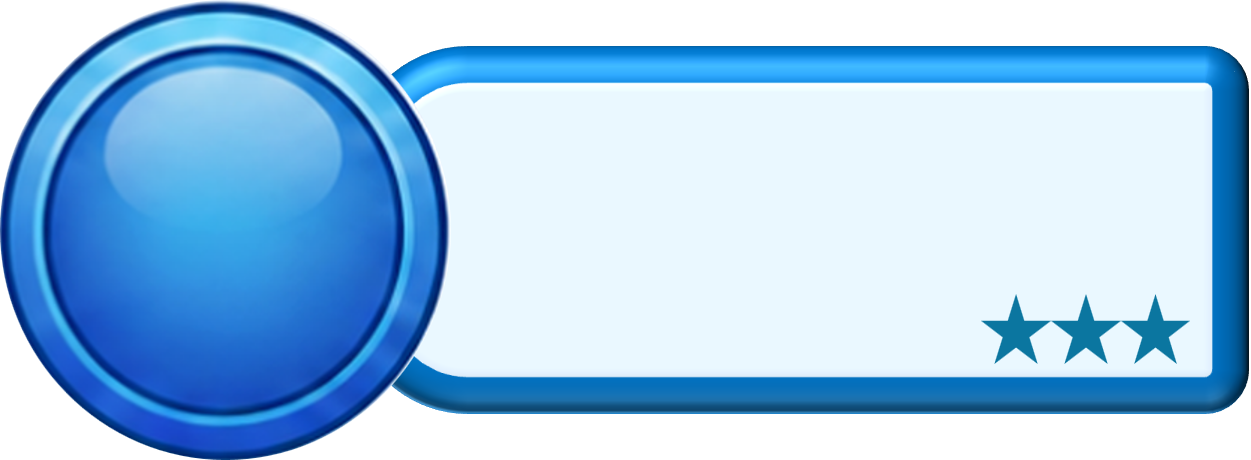
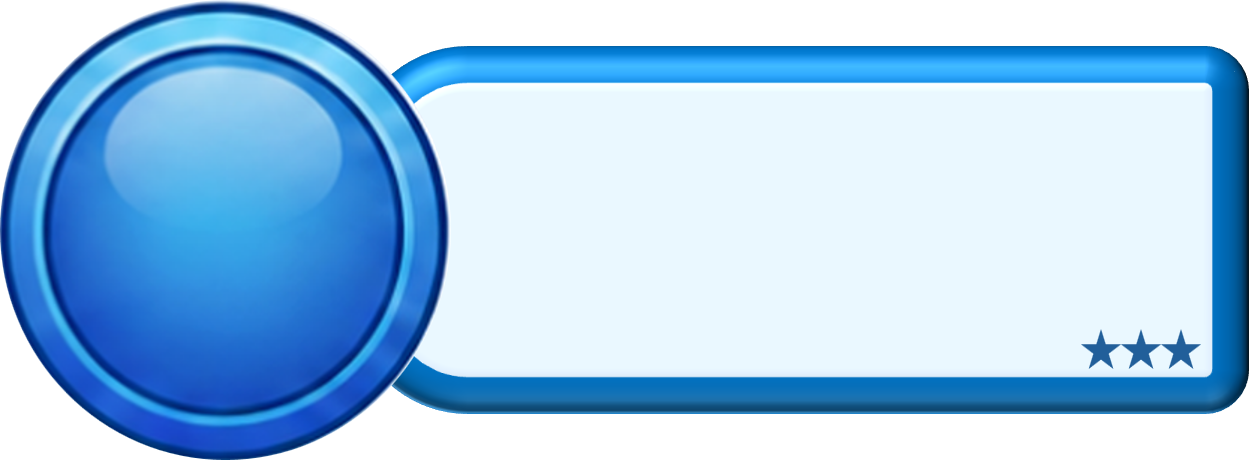
Refine badge plates and UI styling

Changed region(s): [[0.7794, 0.6391, 0.9664, 0.7913]]

diff --git a/app/src/styles.css b/app/src/styles.css
@@ -367,7 +367,7 @@ h2 {
   color: var(--game-blue-deep);
   background: transparent;
   font: inherit;
-  font-size: 0.74rem;
+  font-size: 0.78rem;
   text-align: left;
   cursor: pointer;
 }
@@ -375,11 +375,9 @@ h2 {
 .bat-records-toggle span {
   color: inherit;
   text-shadow:
-    2px 0 #fff,
-    -2px 0 #fff,
-    0 2px #fff,
-    0 -2px #fff,
-    0 4px 0 rgba(5, 41, 116, 0.28);
+    0 1px 0 rgba(255, 255, 255, 0.92),
+    0 0 1px rgba(255, 255, 255, 0.78),
+    0 2px 2px rgba(5, 41, 116, 0.18);
 }
 
 .bat-records-toggle::after {
@@ -3706,23 +3704,21 @@ input::placeholder {
   color: var(--badge-count-blue);
   font-size: 1.9rem;
   font-weight: 950;
-  -webkit-text-stroke: 0.45px rgba(255, 255, 255, 0.9);
+  -webkit-text-stroke: 0.25px rgba(255, 255, 255, 0.78);
   text-shadow:
-    0 1px 0 rgba(255, 255, 255, 0.84),
-    0 2px 0 rgba(5, 57, 142, 0.35),
-    0 4px 5px rgba(6, 34, 82, 0.3);
+    0 1px 0 rgba(255, 255, 255, 0.62),
+    0 2px 0 rgba(5, 57, 142, 0.22),
+    0 3px 4px rgba(6, 34, 82, 0.22);
 }
 
 .badge-heading-count span {
   color: var(--game-blue-deep);
-  font-size: 0.8rem;
+  font-size: 0.84rem;
   font-weight: 900;
   text-shadow:
-    2px 0 #fff,
-    -2px 0 #fff,
-    0 2px #fff,
-    0 -2px #fff,
-    0 4px 0 rgba(5, 41, 116, 0.28);
+    0 1px 0 rgba(255, 255, 255, 0.92),
+    0 0 1px rgba(255, 255, 255, 0.78),
+    0 2px 2px rgba(5, 41, 116, 0.18);
 }
 
 .badge-inline-section .section-row p {
@@ -11025,6 +11021,57 @@ body .app .daily-result-card .milestone-dot {
   -webkit-tap-highlight-color: transparent !important;
   background:
     radial-gradient(circle at 32% 22%, rgba(255, 255, 255, 0.96) 0 9%, transparent 22%) padding-box,
+    radial-gradient(circle, color-mix(in srgb, var(--score-color), white 25%), var(--score-dark)) padding-box !important;
+  background-size:
+    auto,
+    auto !important;
+  background-origin:
+    padding-box,
+    padding-box !important;
+  background-clip:
+    padding-box,
+    padding-box !important;
+  background-position:
+    center,
+    center !important;
+  box-shadow: none !important;
+  transform: translateY(-50%) !important;
+}
+
+body .app .daily-result-card .milestone-dot::before {
+  position: absolute !important;
+  inset: 0 !important;
+  border: 1.5px solid #ffffff !important;
+  border-radius: inherit !important;
+  box-shadow: none !important;
+  content: "" !important;
+  pointer-events: none !important;
+}
+
+body .app .daily-result-card .milestone-dot.locked {
+  opacity: 0.72 !important;
+  background:
+    radial-gradient(circle at 32% 22%, rgba(255, 255, 255, 0.78) 0 9%, transparent 22%) padding-box,
+    radial-gradient(circle, #d6dce5, #8f9aaa) padding-box !important;
+  background-size:
+    auto,
+    auto !important;
+  background-origin:
+    padding-box,
+    padding-box !important;
+  background-clip:
+    padding-box,
+    padding-box !important;
+  background-position:
+    center,
+    center !important;
+  box-shadow: none !important;
+}
+
+body .app .daily-result-card .milestone-dot.earned {
+  opacity: 1 !important;
+  background:
+    radial-gradient(circle at 32% 22%, rgba(255, 255, 255, 0.96) 0 9%, transparent 22%) padding-box,
     radial-gradient(circle, color-mix(in srgb, var(--score-color), white 25%), var(--score-dark)) padding-box,
     linear-gradient(
       90deg,
@@ -11059,25 +11106,15 @@ body .app .daily-result-card .milestone-dot {
     center,
     0 0,
     var(--milestone-dot-bg-x, 0px) 0 !important;
-  box-shadow: none !important;
-  transform: translateY(-50%) !important;
 }
 
-body .app .daily-result-card .milestone-dot::before {
-  position: absolute !important;
-  inset: 0 !important;
-  border: 1.5px solid #ffffff !important;
-  border-radius: inherit !important;
+body .app .daily-result-card .milestone-dot.target {
+  z-index: 5 !important;
+  opacity: 1 !important;
   box-shadow: none !important;
-  content: "" !important;
-  pointer-events: none !important;
-}
-
-body .app .daily-result-card .milestone-dot.locked {
-  opacity: 0.72 !important;
   background:
-    radial-gradient(circle at 32% 22%, rgba(255, 255, 255, 0.78) 0 9%, transparent 22%) padding-box,
-    radial-gradient(circle, #d6dce5, #8f9aaa) padding-box,
+    radial-gradient(circle at 32% 22%, rgba(255, 255, 255, 0.96) 0 9%, transparent 22%) padding-box,
+    radial-gradient(circle, color-mix(in srgb, var(--score-color), white 25%), var(--score-dark)) padding-box,
     linear-gradient(
       90deg,
       transparent 0%,
@@ -11111,17 +11148,6 @@ body .app .daily-result-card .milestone-dot.locked {
     center,
     0 0,
     var(--milestone-dot-bg-x, 0px) 0 !important;
-  box-shadow: none !important;
-}
-
-body .app .daily-result-card .milestone-dot.earned {
-  opacity: 1 !important;
-}
-
-body .app .daily-result-card .milestone-dot.target {
-  z-index: 5 !important;
-  opacity: 1 !important;
-  box-shadow: none !important;
 }
 
 body .app .daily-result-card .milestone-dot-frame {
@@ -11876,11 +11902,10 @@ body .app .home-score-input-grid .home-input-panel::before {
   object-fit: contain;
   filter:
     brightness(0) invert(1)
-    drop-shadow(0 0 0.35px rgba(0, 0, 0, 0.78))
-    drop-shadow(0.35px 0 0 rgba(0, 0, 0, 0.58))
-    drop-shadow(-0.35px 0 0 rgba(0, 0, 0, 0.58))
-    drop-shadow(0 0.35px 0 rgba(0, 0, 0, 0.58))
-    drop-shadow(0 -0.35px 0 rgba(0, 0, 0, 0.58))
+    drop-shadow(1px 0 0 rgba(0, 0, 0, 0.58))
+    drop-shadow(-1px 0 0 rgba(0, 0, 0, 0.58))
+    drop-shadow(0 1px 0 rgba(0, 0, 0, 0.58))
+    drop-shadow(0 -1px 0 rgba(0, 0, 0, 0.58))
     drop-shadow(0 1px 2px rgba(0, 0, 0, 0.26));
   transform: translateX(-3px);
 }
@@ -11925,17 +11950,38 @@ body .app .home-score-input-grid .home-input-panel::before {
   text-shadow: 0 1px 0 rgba(255, 255, 255, 0.38);
 }
 
-.badge.collection-badge.rarity-d { --badge-chip-text: #8d4e22; }
-.badge.collection-badge.rarity-c { --badge-chip-text: #357b27; }
-.badge.collection-badge.rarity-b { --badge-chip-text: #0f5db5; }
-.badge.collection-badge.rarity-a { --badge-chip-text: #c72216; }
-.badge.collection-badge.rarity-s { --badge-chip-text: #000814; }
-.badge.collection-badge.rarity-ss { --badge-chip-text: #2f1800; }
+.badge.collection-badge.rarity-d { --badge-chip-text: #7b3f17; }
+.badge.collection-badge.rarity-c { --badge-chip-text: #246f1f; }
+.badge.collection-badge.rarity-b { --badge-chip-text: #0b55aa; }
+.badge.collection-badge.rarity-a { --badge-chip-text: #b51220; }
+.badge.collection-badge.rarity-s { --badge-chip-text: #4b5563; }
+.badge.collection-badge.rarity-ss { --badge-chip-text: #a56b00; }
 
 .badge.collection-badge.rarity-s .badge-label {
+  color: #4b5563 !important;
   text-shadow:
-    0 1px 0 rgba(255, 255, 255, 0.48),
-    0 0 2px rgba(255, 255, 255, 0.36);
+    0 1px 0 rgba(255, 255, 255, 0.28),
+    0 0 1px rgba(0, 0, 0, 0.08);
+}
+
+.badge.collection-badge.rarity-ss .badge-label {
+  color: #a56b00 !important;
+}
+
+.badge.collection-badge.rarity-d .badge-label {
+  color: #7b3f17 !important;
+}
+
+.badge.collection-badge.rarity-c .badge-label {
+  color: #246f1f !important;
+}
+
+.badge.collection-badge.rarity-b .badge-label {
+  color: #0b55aa !important;
+}
+
+.badge.collection-badge.rarity-a .badge-label {
+  color: #b51220 !important;
 }
 
 .badge-popup-card {

diff --git a/app/src/App.jsx b/app/src/App.jsx
@@ -155,20 +155,20 @@ const RARITY_IMAGE_URLS = {
   SS: `${PUBLIC_ASSET_BASE}images/rarity_ss.svg`,
 };
 const RARITY_NAMEPLATE_URLS = {
-  D: `${PUBLIC_ASSET_BASE}images/D_bronze_nameplate.png`,
-  C: `${PUBLIC_ASSET_BASE}images/C_green_nameplate.png`,
-  B: `${PUBLIC_ASSET_BASE}images/B_blue_nameplate.png`,
-  A: `${PUBLIC_ASSET_BASE}images/A_red_nameplate.png`,
-  S: `${PUBLIC_ASSET_BASE}images/S_silver_nameplate.png`,
-  SS: `${PUBLIC_ASSET_BASE}images/SS_gold_nameplate.png`,
+  D: `${PUBLIC_ASSET_BASE}images/D_bronze_nameplate.png?v=100`,
+  C: `${PUBLIC_ASSET_BASE}images/C_green_nameplate.png?v=100`,
+  B: `${PUBLIC_ASSET_BASE}images/B_blue_nameplate.png?v=100`,
+  A: `${PUBLIC_ASSET_BASE}images/A_red_nameplate.png?v=100`,
+  S: `${PUBLIC_ASSET_BASE}images/S_silver_nameplate.png?v=100`,
+  SS: `${PUBLIC_ASSET_BASE}images/SS_gold_nameplate.png?v=100`,
 };
 const RARITY_CARD_URLS = {
-  D: `${PUBLIC_ASSET_BASE}images/D_card.png`,
-  C: `${PUBLIC_ASSET_BASE}images/C_card.png`,
-  B: `${PUBLIC_ASSET_BASE}images/B_card.png`,
-  A: `${PUBLIC_ASSET_BASE}images/A_card.png`,
-  S: `${PUBLIC_ASSET_BASE}images/S_card.png`,
-  SS: `${PUBLIC_ASSET_BASE}images/SS_card.png`,
+  D: `${PUBLIC_ASSET_BASE}images/D_card.png?v=100`,
+  C: `${PUBLIC_ASSET_BASE}images/C_card.png?v=100`,
+  B: `${PUBLIC_ASSET_BASE}images/B_card.png?v=100`,
+  A: `${PUBLIC_ASSET_BASE}images/A_card.png?v=100`,
+  S: `${PUBLIC_ASSET_BASE}images/S_card.png?v=100`,
+  SS: `${PUBLIC_ASSET_BASE}images/SS_card.png?v=100`,
 };
 const CATEGORY_ICON_URLS = {
   count: NEW_UI_ASSETS.count,
@@ -2199,8 +2199,8 @@ function DailyResultCard({ card, showBadges, dismissedHomeBadges = new Set(), on
               const dotLeftPx = targetPx - visualDotSize;
               const frameLeftPx = targetPx - (visualDotSize / 2) - (frameSize / 2);
               const iconComplete = milestone.earned || effectiveFillPx >= targetPx;
-              const iconFillRatio = iconComplete ? 1 : milestoneTrackWidth > 0 ? clamp((effectiveFillPx - dotLeftPx) / visualDotSize, 0, 1) : 0;
-              const iconFillPx = iconComplete ? visualDotSize : milestoneTrackWidth > 0 ? clamp(effectiveFillPx - dotLeftPx, 0, visualDotSize) : 0;
+              const iconFillRatio = iconComplete ? 1 : 0;
+              const iconFillPx = iconComplete ? 0 : visualDotSize;
               const definition = makeBadgeDefinition(canonicalBadgeLabel(milestone.label), { description: milestone.description || `${milestone.label}をゲット` });
               return (
                 <Fragment key={milestone.label}>

diff --git a/app/public/service-worker.js b/app/public/service-worker.js
@@ -1,4 +1,4 @@
-const CACHE_NAME = "swing-log-v99";
+const CACHE_NAME = "swing-log-v100";
 const ASSETS = [
   "./",
   "./index.html",
